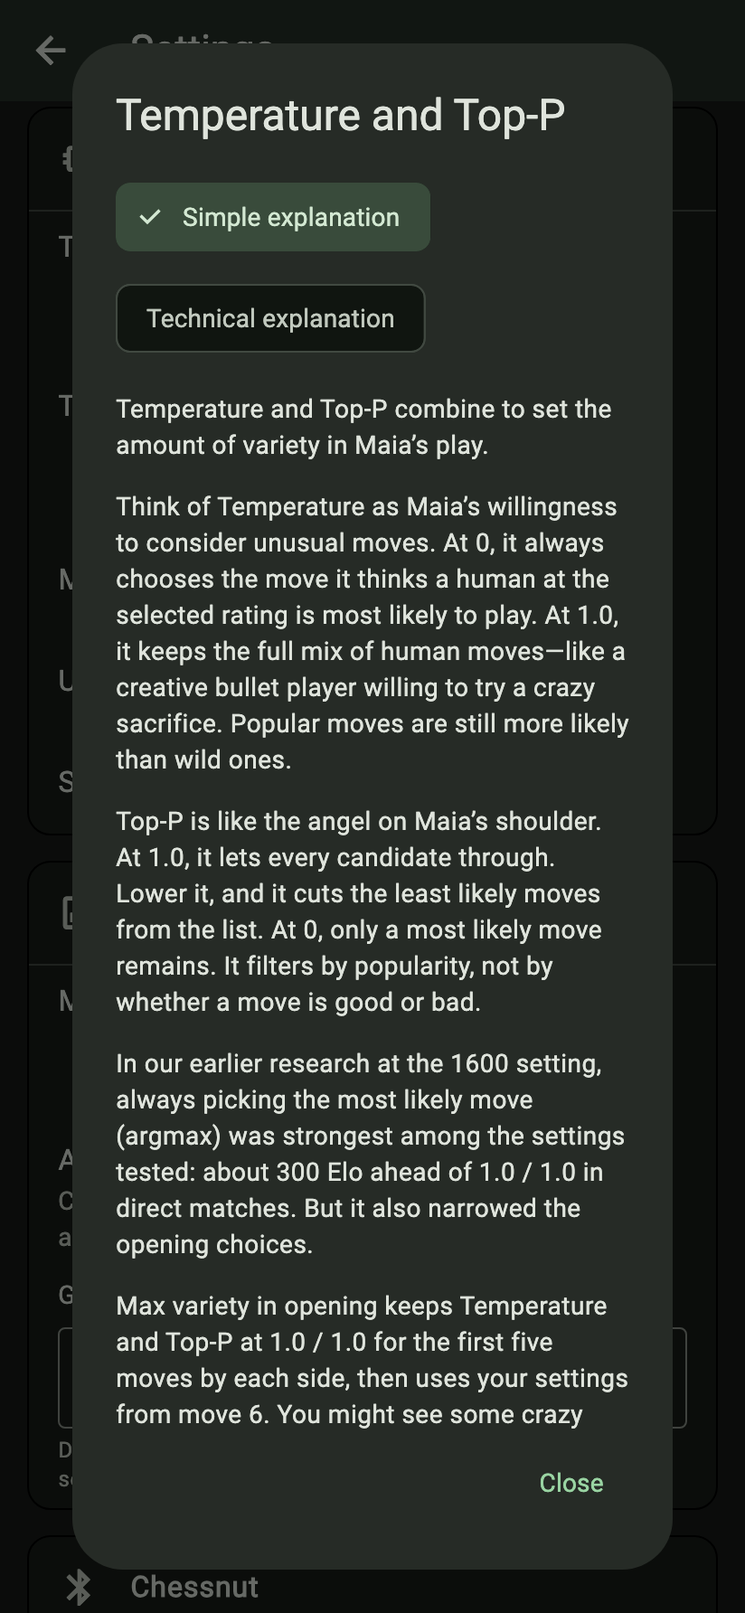
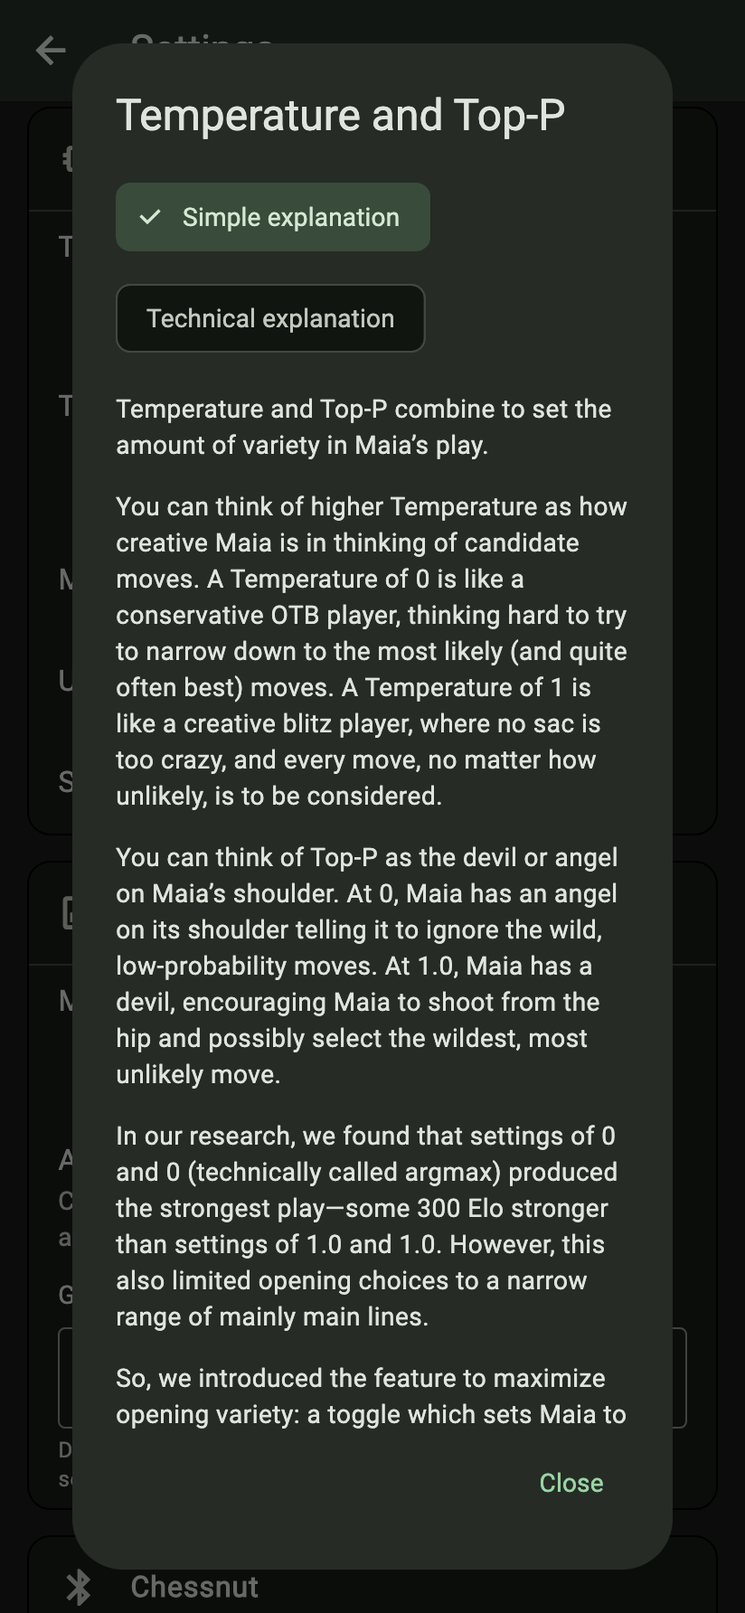
Use approved sampling explanation and correct opening notice threshold

Changed region(s): [[0.1517, 0.3083, 0.8495, 0.8941]]

diff --git a/lib/l10n/app_localizations_hi.dart b/lib/l10n/app_localizations_hi.dart
@@ -1391,27 +1391,27 @@ class AppLocalizationsHi extends AppLocalizations {
 
   @override
   String get samplingHelpIntro =>
-      'टेम्परेचर और Top-P मिलकर तय करते हैं कि Maia की चालों में कितनी विविधता होगी।';
+      'टेम्परेचर और Top-P मिलकर तय करते हैं कि Maia के खेल में कितनी विविधता होगी।';
 
   @override
   String get samplingHelpVariety =>
-      'टेम्परेचर को Maia की असामान्य चालों पर विचार करने की इच्छा समझें। 0 पर वह हमेशा वह चाल चुनती है जिसे चुनी गई रेटिंग का इंसान सबसे अधिक खेल सकता है। 1.0 पर इंसानी चालों की पूरी विविधता बनी रहती है—जैसे कोई रचनात्मक बुलेट खिलाड़ी अनोखा बलिदान आज़माने को तैयार हो। फिर भी आम चालों की संभावना अजीब चालों से अधिक रहती है।';
+      'ज़्यादा टेम्परेचर का मतलब आप यह समझ सकते हैं कि संभावित चालें सोचते समय Maia कितनी रचनात्मक होगी। टेम्परेचर 0 एक सतर्क खिलाड़ी जैसा है, जो असली बिसात पर बैठकर गहराई से सोचता है और विकल्पों को सबसे संभावित (और अक्सर सबसे अच्छी) चालों तक सीमित करने की कोशिश करता है। टेम्परेचर 1 एक रचनात्मक ब्लिट्ज़ खिलाड़ी जैसा है, जिसके लिए कोई भी बलिदान बहुत पागलपन भरा नहीं है और हर चाल पर विचार किया जा सकता है, चाहे उसकी संभावना कितनी भी कम हो।';
 
   @override
   String get samplingHelpDefaults =>
-      'Top-P को Maia के कंधे पर बैठा देवदूत समझें। 1.0 पर सभी विकल्पों को अनुमति मिलती है। इसे घटाने पर सबसे कम संभावित चालें हटती हैं। 0 पर सबसे अधिक संभावना वाली एक चाल बचती है। यह लोकप्रियता के आधार पर छाँटता है, चाल अच्छी है या बुरी, इस आधार पर नहीं।';
+      'Top-P को आप Maia के कंधे पर बैठे शैतान या फ़रिश्ते की तरह समझ सकते हैं। 0 पर फ़रिश्ता उसे अजीब और कम संभावना वाली चालों को नज़रअंदाज़ करने को कहता है। 1.0 पर शैतान उसे आवेग में खेलने के लिए उकसाता है, जिससे वह सबसे अजीब और सबसे कम संभावित चाल भी चुन सकती है।';
 
   @override
   String get samplingHelpStrength =>
-      '1600 सेटिंग पर हमारे पहले शोध में हमेशा सबसे संभावित चाल चुनना (argmax) जाँची गई सेटिंग में सबसे मज़बूत था: 1.0 / 1.0 के विरुद्ध सीधे मुकाबलों में लगभग 300 Elo की बढ़त। लेकिन इससे ओपनिंग के विकल्प भी कम हुए।';
+      'हमारे शोध में 0 और 0 की सेटिंग (जिसे तकनीकी भाषा में argmax कहते हैं) से सबसे मज़बूत खेल मिला—1.0 और 1.0 की सेटिंग से लगभग 300 Elo अधिक मज़बूत। हालांकि, इससे ओपनिंग के विकल्प भी सीमित हो गए और ज़्यादातर मुख्य लाइनों तक सिमट गए।';
 
   @override
   String get samplingHelpArgmax =>
-      'ओपनिंग में अधिकतम विविधता चालू होने पर दोनों पक्षों की पहली पाँच चालों में टेम्परेचर और Top-P 1.0 / 1.0 रहते हैं। छठी चाल से आपकी सेटिंग लागू होती है। ओपनिंग में कुछ चौंकाने वाली चालें दिख सकती हैं!';
+      'इसलिए हमने ओपनिंग में अधिकतम विविधता की सुविधा जोड़ी: एक स्विच जो पहली 5 चालों के लिए Maia की सेटिंग 1.0 और 1.0 कर देता है। ओपनिंग में आपको कुछ अजीबोगरीब चालें दिख सकती हैं! लेकिन छठी चाल से Maia आपकी पहले से तय की गई सेटिंग पर लौट आती है।';
 
   @override
   String get samplingHelpTopP =>
-      'हम ओपनिंग विविधता चालू, टेम्परेचर 1.0 और Top-P 0.95 की सलाह देते हैं। यह देवदूत की सलाह सुनने वाला रचनात्मक खिलाड़ी है: ओपनिंग के बाद सबसे कम संभावित चालों का आखिरी हिस्सा हटता है, जिसकी कुल संभावना अधिकतम 5% होती है। इससे बड़ी गलतियाँ हट सकती हैं, लेकिन अप्रत्याशित अच्छी चालें भी। बड़ी गलतियाँ फिर भी संभव हैं। अधिक कठिन प्रतिद्वंद्वी के लिए टेम्परेचर 0 आज़माएँ। ओपनिंग विविधता चालू हो तो यह छठी चाल से लागू होता है। शुभकामनाएँ!';
+      'हम ओपनिंग में अधिकतम विविधता चालू रखने और टेम्परेचर 1.0 तथा Top-P 0.95 रखने की सलाह देते हैं। यह एक रचनात्मक खिलाड़ी के कंधे पर बैठे फ़रिश्ते जैसा है, जो कम से कम उसे बिल्कुल बेतुकी चालें खेलने से रोकता है—यानी सबसे कम संभावित चालें, जिनकी कुल संभावना अधिकतम 5% होती है। ये चालें शानदार हो सकती हैं, लेकिन बेवकूफ़ी भरी बड़ी गलतियाँ भी हो सकती हैं। इससे ओपनिंग में विविधता, मध्य खेल में रचनात्मकता और बहुत कम संभावना वाली कुछ बड़ी गलतियों को हटाकर अधिक मज़बूत खेल के बीच अच्छा संतुलन मिलना चाहिए।\n\nअगर आप चुनौती के लिए तैयार हैं, तो टेम्परेचर 0 रखें (टेम्परेचर 0 होने पर Top-P का कोई असर नहीं होता)। हमारे शोध के अनुसार, इससे सबसे मज़बूत प्रतिद्वंद्वी मिलेगा। शुभकामनाएँ!';
 
   @override
   String get samplingHelpResearchIntro =>

diff --git a/lib/l10n/app_localizations_ru.dart b/lib/l10n/app_localizations_ru.dart
@@ -1413,27 +1413,27 @@ class AppLocalizationsRu extends AppLocalizations {
 
   @override
   String get samplingHelpIntro =>
-      'Температура и Top-P вместе определяют разнообразие ходов Maia.';
+      'Температура и Top-P вместе определяют разнообразие игры Maia.';
 
   @override
   String get samplingHelpVariety =>
-      'Представьте температуру как готовность Maia рассматривать необычные ходы. При 0 она всегда выбирает ход, который, по её прогнозу, наиболее вероятен для человека выбранного рейтинга. При 1.0 сохраняется весь набор человеческих ходов — как у изобретательного игрока в пулю, готового на безумную жертву. При этом популярные ходы всё равно вероятнее необычных.';
+      'Повышенную температуру можно представить как большую изобретательность Maia при выборе ходов-кандидатов. Температура 0 — это как осторожный игрок за настоящей доской, который тщательно обдумывает позицию, стараясь сузить выбор до наиболее вероятных (и довольно часто лучших) ходов. Температура 1 — это как изобретательный блицор, для которого нет слишком безумных жертв и который готов рассмотреть любой ход, каким бы маловероятным он ни был.';
 
   @override
   String get samplingHelpDefaults =>
-      'Top-P — словно ангел на плече Maia. При 1.0 он пропускает все ходы-кандидаты. Если уменьшить значение, самые маловероятные ходы исключаются. При 0 остаётся один из наиболее вероятных ходов. Фильтр учитывает популярность хода, а не его качество.';
+      'Top-P можно представить как дьявола или ангела на плече Maia. При 0 ангел советует ей не обращать внимания на безумные, маловероятные ходы. При 1.0 дьявол подталкивает её действовать сгоряча и, возможно, выбрать самый безумный и неожиданный ход.';
 
   @override
   String get samplingHelpStrength =>
-      'В нашем предыдущем исследовании при рейтинге 1600 выбор самого вероятного хода (argmax) оказался самым сильным из проверенных вариантов: преимущество над 1.0 / 1.0 в прямых матчах составило около 300 Эло. Но выбор дебютов стал уже.';
+      'В нашем исследовании настройки 0 и 0 (технически это называется argmax) дали самую сильную игру — примерно на 300 Elo сильнее, чем настройки 1.0 и 1.0. Однако это также ограничило выбор дебютов узким набором преимущественно основных вариантов.';
 
   @override
   String get samplingHelpArgmax =>
-      'Максимальное разнообразие в дебюте использует температуру и Top-P 1.0 / 1.0 на первых пяти ходах каждой стороны, а с шестого применяет ваши настройки. В дебюте возможны сюрпризы!';
+      'Поэтому мы добавили функцию максимального разнообразия в дебюте: переключатель, с которым Maia использует настройки 1.0 и 1.0 на первых 5 ходах. В дебюте можно увидеть что-нибудь безумное! Но с 6-го хода Maia переходит к заданным вами настройкам.';
 
   @override
   String get samplingHelpTopP =>
-      'Мы рекомендуем включить разнообразие в дебюте, установить температуру 1.0 и Top-P 0.95. Это творческий игрок с ангелом на плече: после дебюта отбрасывается наименее вероятный хвост ходов с суммарной вероятностью не более 5%. Так можно исключить зевки, но и неожиданные хорошие ходы. Зевки всё ещё возможны. Для более сильного соперника попробуйте температуру 0. Если разнообразие в дебюте включено, она действует с шестого хода. Удачи!';
+      'Мы рекомендуем включить максимальное разнообразие в дебюте и установить температуру 1.0, а Top-P — 0.95. Это как изобретательный игрок с ангелом на плече, который хотя бы отговаривает его от совсем уж нелепых ходов — наименее вероятных, суммарная вероятность которых составляет до 5%. Конечно, они могут оказаться блестящими, но могут быть и глупыми зевками. Это должно дать хороший баланс разнообразия в дебюте, изобретательности в миттельшпиле и более сильной игры за счёт исключения некоторых крайне маловероятных зевков.\n\nЕсли вы готовы рискнуть, установите температуру 0 (при температуре 0 Top-P ни на что не влияет): по данным нашего исследования, это даст самого сильного соперника. Удачи!';
 
   @override
   String get samplingHelpResearchIntro =>

diff --git a/lib/l10n/app_localizations.dart b/lib/l10n/app_localizations.dart
@@ -2407,31 +2407,31 @@ abstract class AppLocalizations {
   /// Maia-specific sampling guidance for the 2.5 default proposal. Preserve probability mass versus individual move probability, the five-full-move boundary and conditional direct-match strength claims. Not a Lichess equivalent. Explanation selector changes prose only.
   ///
   /// In en, this message translates to:
-  /// **'Think of Temperature as Maia’s willingness to consider unusual moves. At 0, it always chooses the move it thinks a human at the selected rating is most likely to play. At 1.0, it keeps the full mix of human moves—like a creative bullet player willing to try a crazy sacrifice. Popular moves are still more likely than wild ones.'**
+  /// **'You can think of higher Temperature as how creative Maia is in thinking of candidate moves. A Temperature of 0 is like a conservative OTB player, thinking hard to try to narrow down to the most likely (and quite often best) moves. A Temperature of 1 is like a creative blitz player, where no sac is too crazy, and every move, no matter how unlikely, is to be considered.'**
   String get samplingHelpVariety;
 
   /// Maia-specific sampling guidance for the 2.5 default proposal. Preserve probability mass versus individual move probability, the five-full-move boundary and conditional direct-match strength claims. Not a Lichess equivalent. Explanation selector changes prose only.
   ///
   /// In en, this message translates to:
-  /// **'Top-P is like the angel on Maia’s shoulder. At 1.0, it lets every candidate through. Lower it, and it cuts the least likely moves from the list. At 0, only a most likely move remains. It filters by popularity, not by whether a move is good or bad.'**
+  /// **'You can think of Top-P as the devil or angel on Maia’s shoulder. At 0, Maia has an angel on its shoulder telling it to ignore the wild, low-probability moves. At 1.0, Maia has a devil, encouraging Maia to shoot from the hip and possibly select the wildest, most unlikely move.'**
   String get samplingHelpDefaults;
 
   /// Maia-specific sampling guidance for the 2.5 default proposal. Preserve probability mass versus individual move probability, the five-full-move boundary and conditional direct-match strength claims. Not a Lichess equivalent. Explanation selector changes prose only.
   ///
   /// In en, this message translates to:
-  /// **'In our earlier research at the 1600 setting, always picking the most likely move (argmax) was strongest among the settings tested: about 300 Elo ahead of 1.0 / 1.0 in direct matches. But it also narrowed the opening choices.'**
+  /// **'In our research, we found that settings of 0 and 0 (technically called argmax) produced the strongest play—some 300 Elo stronger than settings of 1.0 and 1.0. However, this also limited opening choices to a narrow range of mainly main lines.'**
   String get samplingHelpStrength;
 
   /// Maia-specific sampling guidance for the 2.5 default proposal. Preserve probability mass versus individual move probability, the five-full-move boundary and conditional direct-match strength claims. Not a Lichess equivalent. Explanation selector changes prose only.
   ///
   /// In en, this message translates to:
-  /// **'Max variety in opening keeps Temperature and Top-P at 1.0 / 1.0 for the first five moves by each side, then uses your settings from move 6. You might see some crazy things in the opening!'**
+  /// **'So, we introduced the feature to maximize opening variety: a toggle which sets Maia to play with settings of 1.0 and 1.0 for the first 5 moves. You might see some crazy things in the opening phase! But from the 6th move, Maia switches to your preconfigured settings.'**
   String get samplingHelpArgmax;
 
   /// Maia-specific sampling guidance for the 2.5 default proposal. Preserve probability mass versus individual move probability, the five-full-move boundary and conditional direct-match strength claims. Not a Lichess equivalent. Explanation selector changes prose only.
   ///
   /// In en, this message translates to:
-  /// **'Our recommended defaults are opening variety on, Temperature 1.0 and Top-P 0.95. This keeps a creative player with an angel on its shoulder: after the opening, moves from the least likely tail, together worth up to 5% of the chance, are left out. That can remove blunders, but also good surprises. Blunders are still possible. For a tougher opponent, try Temperature 0. With opening variety on, that takes effect from move 6. Good luck!'**
+  /// **'We recommend turning max opening variety on and setting Temperature to 1.0 and Top-P to 0.95. This is like having a creative player with an angel on its shoulder that at least talks it out of playing the totally far-out moves—the least likely moves whose combined probability is up to 5%. These might be brilliant, true, but they can also be silly blunders. So this should make for a good balance of variety in the opening, creativity in the middle game, and stronger play through the exclusion of some very low-probability blunders.\n\nFor those feeling brave, setting Temperature to 0 (Top-P doesn’t mean anything when Temperature is 0) will produce the strongest opponent, based on our research. Good luck!'**
   String get samplingHelpTopP;
 
   /// Maia-specific sampling guidance for the 2.5 default proposal. Preserve probability mass versus individual move probability, the five-full-move boundary and conditional direct-match strength claims. Not a Lichess equivalent. Explanation selector changes prose only.

diff --git a/lib/l10n/app_localizations_ja.dart b/lib/l10n/app_localizations_ja.dart
@@ -1291,27 +1291,28 @@ class AppLocalizationsJa extends AppLocalizations {
   String get resetSettingsAction => '設定を初期値に戻す';
 
   @override
-  String get samplingHelpIntro => '温度とTop-Pは、Maiaの指し手にどのくらい変化を持たせるかを決めます。';
+  String get samplingHelpIntro =>
+      '温度とTop-Pを組み合わせることで、Maiaの指し手にどのくらい多様性を持たせるかが決まります。';
 
   @override
   String get samplingHelpVariety =>
-      '温度は、Maiaが珍しい手を候補に入れる度合いと考えてください。0では、選んだレーティングの人間が最も指しそうだと予測した手を必ず選びます。1.0では、人間の指し手の幅をそのまま残します。大胆なサクリファイスも試す、創造的なブレットプレイヤーのようなイメージです。ただし、奇抜な手よりよく指される手のほうが選ばれやすいままです。';
+      '温度を高くするほど、Maiaが候補手を考えるときの創造性が増す、と考えてください。温度0は、最も指されそうな手（そして、多くの場合は最善手）に絞ろうとじっくり考える、堅実な対面対局のプレイヤーのようなものです。温度1は、どんな大胆なサクリファイスも恐れず、どれほど指されにくい手でも候補に入れる、創造的なブリッツプレイヤーのようなものです。';
 
   @override
   String get samplingHelpDefaults =>
-      'Top-Pは、Maiaの肩に乗った天使のようなものです。1.0なら、すべての候補を通します。下げると、選ばれる確率の低い手から候補を削ります。0では、最も確率の高い手だけが残ります。手の良し悪しではなく、人間が指しそうかどうかで絞り込みます。';
+      'Top-Pは、Maiaの肩に乗った悪魔や天使だと考えてください。0では、天使が「奇抜で確率の低い手は無視しよう」と助言します。1.0では、悪魔が「思い切って指してみよう」とそそのかし、最も奇抜で指されにくい手を選ぶこともあります。';
 
   @override
   String get samplingHelpStrength =>
-      '以前のレーティング1600での研究では、最も確率の高い手を常に選ぶ方法（argmax）が、調べた設定の中で最も強くなりました。1.0 / 1.0との直接対戦では約300 Elo相当の差がありましたが、オープニングの選択肢も狭まりました。';
+      '私たちの研究では、0と0の設定（技術的にはargmaxと呼びます）が最も強い指し方となり、1.0と1.0の設定より約300 Elo強くなりました。ただし、オープニングの選択肢も、主にメインラインの狭い範囲に限られるようになりました。';
 
   @override
   String get samplingHelpArgmax =>
-      '「序盤の多様性を最大にする」は、双方の最初の5手に温度とTop-P 1.0 / 1.0を使い、6手目から設定した値に戻します。序盤には驚くような手が出るかもしれません！';
+      'そこで、序盤の多様性を最大にする機能を導入しました。最初の5手はMaiaの設定を1.0と1.0にするスイッチです。序盤には驚くような手が出るかもしれません！ ただし、6手目からは、あらかじめ指定した設定に切り替わります。';
 
   @override
   String get samplingHelpTopP =>
-      'おすすめの初期設定は、序盤の多様性をオン、温度 1.0、Top-P 0.95です。創造的なプレイヤーに天使が助言するイメージです。序盤の後は、確率の低い末尾の手を、合計で最大5%分だけ候補から外します。ブランダーを除けることもあれば、意外な好手を除くこともあります。ブランダーがなくなるわけではありません。より手強い相手を求めるなら温度 0を試してください。序盤の多様性がオンなら6手目から適用されます。幸運を！';
+      '「序盤の多様性を最大にする」をオンにし、温度を1.0、Top-Pを0.95にすることをおすすめします。創造的なプレイヤーの肩に天使が乗り、少なくとも極端に奇抜な手は思いとどまらせるようなイメージです。除かれるのは、確率の低い手のうち、合計確率が最大5%になる部分です。そうした手には妙手もあるでしょうが、単純なブランダーもあり得ます。序盤の多様性、ミドルゲームの創造性、そして非常に確率の低いブランダーの一部を除くことによる強さの、よいバランスが期待できます。\n\n腕に自信のある方は、温度を0にしてみてください（温度0ではTop-Pは意味を持ちません）。私たちの研究では、最も手強い相手になる設定です。健闘を祈ります！';
 
   @override
   String get samplingHelpResearchIntro =>

diff --git a/lib/l10n/app_localizations_ko.dart b/lib/l10n/app_localizations_ko.dart
@@ -1293,27 +1293,27 @@ class AppLocalizationsKo extends AppLocalizations {
   String get resetSettingsAction => '설정 초기화';
 
   @override
-  String get samplingHelpIntro => '온도와 Top-P는 함께 Maia의 수가 얼마나 다양할지 정합니다.';
+  String get samplingHelpIntro => '온도와 Top-P는 함께 Maia의 플레이가 얼마나 다양한지를 결정합니다.';
 
   @override
   String get samplingHelpVariety =>
-      '온도는 Maia가 드문 수를 고려하는 정도라고 생각하면 됩니다. 0에서는 선택한 레이팅의 사람이 가장 둘 법하다고 예측한 수를 항상 고릅니다. 1.0에서는 사람의 수 분포를 그대로 유지합니다. 과감한 희생도 시도하는 창의적인 불릿 플레이어와 비슷합니다. 그래도 흔한 수가 기발한 수보다 선택될 가능성이 높습니다.';
+      '온도가 높을수록 Maia가 후보 수를 생각할 때 더 창의적이라고 이해하면 됩니다. 온도 0은 가장 나올 법한 수(그리고 꽤 자주 최선의 수)로 선택지를 좁히려고 깊이 생각하는, 보수적인 대면 체스 플레이어와 같습니다. 온도 1은 아무리 대담한 희생도 마다하지 않고, 나올 가능성이 아무리 낮아도 모든 수를 고려하는 창의적인 블리츠 플레이어와 같습니다.';
 
   @override
   String get samplingHelpDefaults =>
-      'Top-P는 Maia의 어깨 위 천사와 같습니다. 1.0에서는 모든 후보를 통과시킵니다. 낮추면 확률이 가장 낮은 수부터 제외합니다. 0에서는 확률이 가장 높은 수 하나만 남습니다. 수의 좋고 나쁨이 아니라 사람이 둘 가능성으로 거릅니다.';
+      'Top-P는 Maia의 어깨 위에 앉은 악마 또는 천사라고 생각하면 됩니다. 0에서는 천사가 엉뚱하고 확률이 낮은 수를 무시하라고 말합니다. 1.0에서는 악마가 과감하게 질러 보라고 부추겨, 가장 엉뚱하고 나올 가능성이 낮은 수를 고를 수도 있습니다.';
 
   @override
   String get samplingHelpStrength =>
-      '이전 레이팅 1600 연구에서는 항상 가장 확률 높은 수를 고르는 argmax가 시험한 설정 중 가장 강했습니다. 1.0 / 1.0과의 직접 대결에서 약 300 Elo에 해당하는 우위를 보였지만, 오프닝 선택도 좁아졌습니다.';
+      '연구 결과, 0과 0 설정(기술적으로 argmax라고 부릅니다)이 가장 강한 플레이를 보였으며, 1.0과 1.0 설정보다 약 300 Elo 더 강했습니다. 하지만 오프닝 선택도 주로 메인라인 위주의 좁은 범위로 제한되었습니다.';
 
   @override
   String get samplingHelpArgmax =>
-      '오프닝 다양성 최대화를 켜면 양쪽의 처음 다섯 수에는 온도와 Top-P 1.0 / 1.0을 사용하고, 여섯 번째 수부터 설정한 값으로 돌아갑니다. 오프닝에서 놀라운 수가 나올 수도 있습니다!';
+      '그래서 오프닝 다양성을 최대화하는 기능을 도입했습니다. 이 스위치를 켜면 처음 5수 동안 Maia가 1.0과 1.0 설정으로 둡니다. 오프닝에서 놀라운 수를 볼 수도 있습니다! 하지만 6수째부터는 미리 지정한 설정으로 돌아갑니다.';
 
   @override
   String get samplingHelpTopP =>
-      '권장 기본값은 오프닝 다양성 켜기, 온도 1.0, Top-P 0.95입니다. 천사가 조언하는 창의적인 플레이어를 떠올려 보세요. 오프닝 이후에는 확률이 낮은 꼬리 부분을 합계 최대 5%만큼 제외합니다. 블런더뿐 아니라 뜻밖의 좋은 수도 빠질 수 있고, 블런더가 없어지는 것은 아닙니다. 더 강한 상대를 원하면 온도 0을 시험해 보세요. 오프닝 다양성을 켜면 여섯 번째 수부터 적용됩니다. 행운을 빕니다!';
+      '오프닝 다양성 최대화를 켜고 온도를 1.0, Top-P를 0.95로 설정하는 것을 권장합니다. 창의적인 플레이어의 어깨 위에 천사가 앉아 적어도 지나치게 엉뚱한 수는 두지 않도록 말려 주는 셈입니다. 제외되는 것은 확률이 가장 낮은 수들 중 합계 확률이 최대 5%인 부분입니다. 이런 수는 묘수일 수도 있지만, 어이없는 블런더일 수도 있습니다. 따라서 오프닝의 다양성, 미들게임의 창의성, 그리고 확률이 매우 낮은 블런더 일부를 제외해 얻는 더 강한 플레이 사이에서 좋은 균형을 기대할 수 있습니다.\n\n자신 있다면 온도를 0으로 설정해 보세요(온도가 0이면 Top-P는 의미가 없습니다). 연구 결과에 따르면 가장 강한 상대가 됩니다. 행운을 빕니다!';
 
   @override
   String get samplingHelpResearchIntro =>

diff --git a/lib/l10n/app_localizations_fr.dart b/lib/l10n/app_localizations_fr.dart
@@ -1393,27 +1393,27 @@ class AppLocalizationsFr extends AppLocalizations {
 
   @override
   String get samplingHelpIntro =>
-      'La température et Top-P déterminent ensemble la variété des coups de Maia.';
+      'La température et Top-P déterminent ensemble la variété du jeu de Maia.';
 
   @override
   String get samplingHelpVariety =>
-      'Voyez la température comme la volonté de Maia d’envisager des coups inhabituels. À 0, elle choisit toujours le coup qu’elle juge le plus probable pour un humain du niveau sélectionné. À 1.0, elle conserve tout l’éventail des coups humains, comme un joueur de bullet créatif prêt à tenter un sacrifice fou. Les coups populaires restent plus probables que les coups extravagants.';
+      'Vous pouvez voir une température plus élevée comme une plus grande créativité de Maia lorsqu’elle envisage des coups candidats. Une température de 0 ressemble à un joueur prudent devant un véritable échiquier, qui réfléchit longuement pour se limiter aux coups les plus probables (et assez souvent les meilleurs). Une température de 1 ressemble à un joueur de blitz créatif, pour qui aucun sacrifice n’est trop fou et chaque coup, aussi improbable soit-il, mérite d’être envisagé.';
 
   @override
   String get samplingHelpDefaults =>
-      'Top-P est comme l’ange sur l’épaule de Maia. À 1.0, il laisse passer tous les candidats. Diminuez-le pour retirer les coups les moins probables. À 0, il ne reste qu’un coup de probabilité maximale. Il filtre selon la popularité, pas selon la qualité du coup.';
+      'Vous pouvez voir Top-P comme le diable ou l’ange sur l’épaule de Maia. À 0, un ange lui dit d’ignorer les coups extravagants et peu probables. À 1.0, un diable l’encourage à jouer à l’instinct et peut-être à choisir le coup le plus fou et le plus improbable.';
 
   @override
   String get samplingHelpStrength =>
-      'Dans notre étude précédente au niveau 1600, toujours choisir le coup le plus probable (argmax) était le plus fort des réglages testés : environ 300 Elo d’avance sur 1.0 / 1.0 en confrontations directes. Mais cela limitait aussi les ouvertures.';
+      'Dans notre recherche, les réglages 0 et 0 (appelés techniquement argmax) ont produit le jeu le plus fort : environ 300 Elo de plus que les réglages 1.0 et 1.0. Cependant, cela limitait aussi les choix d’ouverture à un éventail restreint, composé surtout de variantes principales.';
 
   @override
   String get samplingHelpArgmax =>
-      'La variété maximale en ouverture utilise température et Top-P 1.0 / 1.0 pendant les cinq premiers coups de chaque camp, puis vos réglages à partir du sixième. Attendez-vous à des surprises dans l’ouverture !';
+      'Nous avons donc introduit une fonction pour maximiser la variété en ouverture : un interrupteur qui fait jouer Maia avec les réglages 1.0 et 1.0 pendant les 5 premiers coups. Vous pourriez voir des choses folles dans l’ouverture ! Mais à partir du 6e coup, Maia revient aux réglages que vous avez configurés.';
 
   @override
   String get samplingHelpTopP =>
-      'Nous recommandons la variété en ouverture activée, une température de 1.0 et Top-P à 0.95. Un joueur créatif avec un ange sur l’épaule : après l’ouverture, les candidats de la fin de la distribution sont exclus, pour au plus 5% de probabilité au total. Cela peut retirer des gaffes, mais aussi de bonnes surprises. Les gaffes restent possibles. Pour un adversaire plus coriace, essayez la température 0. Avec la variété en ouverture activée, elle s’applique dès le sixième coup. Bonne chance !';
+      'Nous recommandons d’activer la variété maximale en ouverture et de régler la température sur 1.0 et Top-P sur 0.95. C’est comme un joueur créatif avec un ange sur l’épaule, qui le dissuade au moins de jouer les coups complètement farfelus : les coups les moins probables dont la probabilité cumulée représente jusqu’à 5 %. Ils pourraient certes être brillants, mais aussi être de grosses erreurs absurdes. Cela devrait offrir un bon équilibre entre variété en ouverture, créativité en milieu de partie et jeu plus fort grâce à l’exclusion de certaines grosses erreurs très peu probables.\n\nPour les plus courageux, régler la température sur 0 (Top-P n’a aucun effet lorsque la température est à 0) donnera l’adversaire le plus fort, d’après notre recherche. Bonne chance !';
 
   @override
   String get samplingHelpResearchIntro =>

diff --git a/lib/l10n/app_localizations_es.dart b/lib/l10n/app_localizations_es.dart
@@ -1394,27 +1394,27 @@ class AppLocalizationsEs extends AppLocalizations {
 
   @override
   String get samplingHelpIntro =>
-      'La temperatura y Top-P determinan juntas la variedad de las jugadas de Maia.';
+      'La temperatura y Top-P se combinan para determinar cuánta variedad hay en el juego de Maia.';
 
   @override
   String get samplingHelpVariety =>
-      'Piensa en la temperatura como la disposición de Maia a considerar jugadas poco habituales. Con 0, siempre elige la jugada que cree más probable para una persona del nivel seleccionado. Con 1.0, conserva toda la variedad humana: como un jugador creativo de bala dispuesto a probar un sacrificio disparatado. Las jugadas populares siguen siendo más probables que las extravagantes.';
+      'Puedes pensar en una temperatura más alta como una mayor creatividad de Maia al considerar jugadas candidatas. Una temperatura de 0 es como un jugador conservador de ajedrez presencial, que piensa detenidamente para reducir sus opciones a las jugadas más probables (y, con bastante frecuencia, las mejores). Una temperatura de 1 es como un jugador creativo de blitz, para quien ningún sacrificio es demasiado loco y toda jugada, por improbable que sea, merece considerarse.';
 
   @override
   String get samplingHelpDefaults =>
-      'Top-P es como el ángel sobre el hombro de Maia. Con 1.0, deja pasar todas las candidatas. Al bajarlo, elimina las menos probables. Con 0, solo queda una de las jugadas más probables. Filtra por popularidad, no por si una jugada es buena o mala.';
+      'Puedes imaginar Top-P como el diablo o el ángel en el hombro de Maia. Con 0, Maia tiene un ángel que le dice que ignore las jugadas disparatadas y poco probables. Con 1.0, tiene un diablo que la anima a improvisar y quizá elegir la jugada más disparatada e improbable.';
 
   @override
   String get samplingHelpStrength =>
-      'En nuestra investigación anterior con el nivel 1600, elegir siempre la jugada más probable (argmax) fue la opción más fuerte entre las probadas: unos 300 Elo de ventaja frente a 1.0 / 1.0 en enfrentamientos directos. Pero también redujo las opciones de apertura.';
+      'En nuestra investigación, los ajustes de 0 y 0 (lo que técnicamente se llama argmax) produjeron el juego más fuerte: unos 300 Elo por encima de los ajustes de 1.0 y 1.0. Sin embargo, también limitaron las opciones de apertura a un repertorio reducido, compuesto principalmente por líneas principales.';
 
   @override
   String get samplingHelpArgmax =>
-      'La máxima variedad en la apertura mantiene la temperatura y Top-P en 1.0 / 1.0 durante las primeras cinco jugadas de cada bando y aplica tus ajustes desde la sexta. ¡Puede haber sorpresas en la apertura!';
+      'Por eso introdujimos la función para maximizar la variedad en la apertura: un interruptor que hace que Maia use los ajustes de 1.0 y 1.0 durante las primeras 5 jugadas. ¡Puede que veas alguna locura en la apertura! Pero, a partir de la sexta jugada, Maia vuelve a los ajustes que hayas configurado.';
 
   @override
   String get samplingHelpTopP =>
-      'Recomendamos activar la variedad en la apertura, con temperatura 1.0 y Top-P 0.95. Es un jugador creativo con un ángel al hombro: tras la apertura, descarta las jugadas de la cola menos probable, que juntas suman como máximo un 5% de probabilidad. Puede eliminar errores graves, pero también buenas sorpresas. Sigue siendo posible cometer errores graves. Para un rival más difícil, prueba la temperatura 0. Con la variedad en la apertura activada, se aplica desde la sexta jugada. ¡Buena suerte!';
+      'Recomendamos activar la máxima variedad en la apertura y ajustar la temperatura a 1.0 y Top-P a 0.95. Es como tener un jugador creativo con un ángel en el hombro que, al menos, lo disuade de jugar las jugadas más descabelladas: las menos probables, cuya probabilidad conjunta suma hasta un 5%. Es cierto que podrían ser brillantes, pero también pueden ser errores graves y absurdos. Así se busca un buen equilibrio entre variedad en la apertura, creatividad en el medio juego y un juego más fuerte al excluir algunos errores graves de probabilidad muy baja.\n\nPara quienes se atrevan, ajustar la temperatura a 0 (Top-P no tiene efecto cuando la temperatura es 0) ofrecerá el rival más fuerte, según nuestra investigación. ¡Buena suerte!';
 
   @override
   String get samplingHelpResearchIntro =>

diff --git a/lib/l10n/app_localizations_de.dart b/lib/l10n/app_localizations_de.dart
@@ -1397,27 +1397,27 @@ class AppLocalizationsDe extends AppLocalizations {
 
   @override
   String get samplingHelpIntro =>
-      'Temperatur und Top-P bestimmen gemeinsam die Vielfalt von Maias Zügen.';
+      'Temperatur und Top-P bestimmen gemeinsam, wie abwechslungsreich Maia spielt.';
 
   @override
   String get samplingHelpVariety =>
-      'Die Temperatur beschreibt, wie sehr Maia ungewöhnliche Züge in Betracht zieht. Bei 0 wählt sie immer den Zug, den ein Mensch der gewählten Spielstärke ihrer Einschätzung nach am ehesten spielen würde. Bei 1.0 bleibt die ganze menschliche Zugvielfalt erhalten – wie bei einem kreativen Bullet-Spieler, der auch ein verrücktes Opfer wagt. Häufige Züge bleiben wahrscheinlicher als ausgefallene.';
+      'Eine höhere Temperatur kannst du dir als mehr Kreativität bei der Suche nach Kandidatenzügen vorstellen. Temperatur 0 ist wie ein konservativer Spieler am echten Brett, der gründlich nachdenkt, um die Auswahl auf die wahrscheinlichsten (und recht oft besten) Züge einzugrenzen. Temperatur 1 ist wie ein kreativer Blitzspieler, dem kein Opfer zu verrückt ist und der jeden Zug in Betracht zieht, so unwahrscheinlich er auch sein mag.';
 
   @override
   String get samplingHelpDefaults =>
-      'Top-P ist wie der Engel auf Maias Schulter. Bei 1.0 lässt er alle Kandidaten durch. Ein niedrigerer Wert entfernt die unwahrscheinlichsten Züge. Bei 0 bleibt nur ein Zug mit höchster Wahrscheinlichkeit übrig. Gefiltert wird nach Häufigkeit, nicht nach der Qualität des Zuges.';
+      'Top-P kannst du dir als Teufel oder Engel auf Maias Schulter vorstellen. Bei 0 sitzt dort ein Engel, der Maia sagt, sie solle wilde, unwahrscheinliche Züge ignorieren. Bei 1.0 sitzt dort ein Teufel, der Maia zu einem Schuss aus der Hüfte ermutigt – vielleicht sogar zum wildesten, unwahrscheinlichsten Zug.';
 
   @override
   String get samplingHelpStrength =>
-      'In unserer früheren Untersuchung auf Stufe 1600 war die Auswahl des wahrscheinlichsten Zuges (argmax) unter den getesteten Einstellungen am stärksten: rund 300 Elo Vorsprung gegen 1.0 / 1.0 im direkten Vergleich. Allerdings wurde die Eröffnungsauswahl enger.';
+      'In unserer Untersuchung ergaben die Einstellungen 0 und 0 (technisch argmax genannt) das stärkste Spiel: etwa 300 Elo stärker als die Einstellungen 1.0 und 1.0. Allerdings beschränkte das auch die Eröffnungsauswahl auf einen engen Bereich, überwiegend aus Hauptvarianten.';
 
   @override
   String get samplingHelpArgmax =>
-      'Maximale Eröffnungsvielfalt nutzt Temperatur und Top-P 1.0 / 1.0 für die ersten fünf Züge beider Seiten. Ab Zug 6 gelten deine Einstellungen. In der Eröffnung kann es also Überraschungen geben!';
+      'Deshalb haben wir eine Funktion für maximale Eröffnungsvielfalt eingeführt: einen Schalter, mit dem Maia für die ersten 5 Züge die Einstellungen 1.0 und 1.0 verwendet. In der Eröffnung könntest du einige verrückte Dinge sehen! Ab dem 6. Zug wechselt Maia aber zu deinen voreingestellten Werten.';
 
   @override
   String get samplingHelpTopP =>
-      'Wir empfehlen Eröffnungsvielfalt an, Temperatur 1.0 und Top-P 0.95. Ein kreativer Spieler mit einem Engel auf der Schulter: Nach der Eröffnung entfallen die unwahrscheinlichsten Kandidaten, deren Wahrscheinlichkeiten zusammen höchstens 5% ergeben. Das kann grobe Fehler, aber auch gute Überraschungen ausschließen. Grobe Fehler bleiben möglich. Für einen stärkeren Gegner kannst du Temperatur 0 ausprobieren. Mit Eröffnungsvielfalt gilt das ab Zug 6. Viel Glück!';
+      'Wir empfehlen, maximale Eröffnungsvielfalt einzuschalten und Temperatur auf 1.0 sowie Top-P auf 0.95 zu setzen. Das ist wie ein kreativer Spieler mit einem Engel auf der Schulter, der ihm zumindest die völlig abwegigen Züge ausredet: die unwahrscheinlichsten Züge, deren gemeinsame Wahrscheinlichkeit bis zu 5 % beträgt. Diese könnten zwar brillant sein, aber auch dumme grobe Fehler. So sollte eine gute Balance aus Eröffnungsvielfalt, Kreativität im Mittelspiel und stärkerem Spiel entstehen, indem einige sehr unwahrscheinliche grobe Fehler ausgeschlossen werden.\n\nWer mutig ist, kann Temperatur auf 0 setzen (Top-P hat bei Temperatur 0 keine Wirkung). Laut unserer Untersuchung ergibt das den stärksten Gegner. Viel Glück!';
 
   @override
   String get samplingHelpResearchIntro =>

diff --git a/lib/l10n/app_localizations_pt.dart b/lib/l10n/app_localizations_pt.dart
@@ -1402,27 +1402,27 @@ class AppLocalizationsPt extends AppLocalizations {
 
   @override
   String get samplingHelpIntro =>
-      'Temperatura e Top-P definem juntas a variedade das jogadas de Maia.';
+      'A temperatura e o Top-P determinam juntos a variedade no jogo da Maia.';
 
   @override
   String get samplingHelpVariety =>
-      'Pense na temperatura como a disposição de Maia para considerar lances incomuns. Em 0, ela sempre escolhe o lance que considera mais provável para uma pessoa do nível selecionado. Em 1.0, mantém toda a variedade humana, como um jogador criativo de bullet disposto a tentar um sacrifício maluco. Os lances populares continuam mais prováveis que os extravagantes.';
+      'Você pode pensar em uma temperatura mais alta como mais criatividade da Maia ao considerar lances candidatos. Uma temperatura de 0 é como um jogador conservador de xadrez presencial, que pensa bastante para restringir as opções aos lances mais prováveis (e, com bastante frequência, os melhores). Uma temperatura de 1 é como um jogador criativo de blitz, para quem nenhum sacrifício é louco demais e todo lance, por mais improvável que seja, merece ser considerado.';
 
   @override
   String get samplingHelpDefaults =>
-      'Top-P é como o anjo no ombro de Maia. Em 1.0, deixa todos os candidatos passar. Ao diminuir o valor, retira os lances menos prováveis. Em 0, resta apenas um dos lances mais prováveis. O filtro considera a popularidade, não se o lance é bom ou ruim.';
+      'Você pode imaginar o Top-P como o diabo ou o anjo no ombro da Maia. Em 0, Maia tem um anjo dizendo para ignorar os lances malucos e pouco prováveis. Em 1.0, tem um diabo incentivando-a a agir por impulso e talvez escolher o lance mais maluco e improvável.';
 
   @override
   String get samplingHelpStrength =>
-      'Na pesquisa anterior com o nível 1600, escolher sempre o lance mais provável (argmax) foi a opção mais forte entre as testadas: cerca de 300 Elo de vantagem contra 1.0 / 1.0 em confrontos diretos. Mas isso também restringiu as aberturas.';
+      'Na nossa pesquisa, as configurações de 0 e 0 (tecnicamente chamadas de argmax) produziram o jogo mais forte: cerca de 300 Elo acima das configurações de 1.0 e 1.0. No entanto, isso também limitou as opções de abertura a um repertório restrito, composto principalmente por linhas principais.';
 
   @override
   String get samplingHelpArgmax =>
-      'A variedade máxima na abertura usa temperatura e Top-P 1.0 / 1.0 nos primeiros cinco lances de cada lado e aplica suas configurações a partir do sexto. Você pode ver surpresas na abertura!';
+      'Por isso, introduzimos o recurso de maximizar a variedade na abertura: uma opção que faz a Maia usar as configurações de 1.0 e 1.0 nos primeiros 5 lances. Você pode ver algumas loucuras na abertura! Mas, a partir do 6º lance, Maia volta às configurações que você definiu.';
 
   @override
   String get samplingHelpTopP =>
-      'Recomendamos variedade na abertura ativada, temperatura 1.0 e Top-P 0.95. É um jogador criativo com um anjo no ombro: após a abertura, ficam de fora os candidatos da cauda menos provável, que juntos somam no máximo 5% de probabilidade. Isso pode excluir erros graves, mas também boas surpresas. Erros graves continuam possíveis. Para um adversário mais difícil, experimente temperatura 0. Com a variedade na abertura ativada, ela vale a partir do sexto lance. Boa sorte!';
+      'Recomendamos ativar a variedade máxima na abertura e definir a temperatura como 1.0 e o Top-P como 0.95. É como ter um jogador criativo com um anjo no ombro, que pelo menos o convence a não jogar os lances totalmente descabidos: os menos prováveis, cuja probabilidade somada chega a até 5%. Eles podem ser brilhantes, é verdade, mas também podem ser erros graves e bobos. Assim, deve haver um bom equilíbrio entre variedade na abertura, criatividade no meio-jogo e um jogo mais forte ao excluir alguns erros graves de probabilidade muito baixa.\n\nPara quem tem coragem, definir a temperatura como 0 (o Top-P não tem efeito quando a temperatura é 0) produzirá o adversário mais forte, segundo nossa pesquisa. Boa sorte!';
 
   @override
   String get samplingHelpResearchIntro =>

diff --git a/lib/l10n/app_localizations_en.dart b/lib/l10n/app_localizations_en.dart
@@ -1378,23 +1378,23 @@ class AppLocalizationsEn extends AppLocalizations {
 
   @override
   String get samplingHelpVariety =>
-      'Think of Temperature as Maia’s willingness to consider unusual moves. At 0, it always chooses the move it thinks a human at the selected rating is most likely to play. At 1.0, it keeps the full mix of human moves—like a creative bullet player willing to try a crazy sacrifice. Popular moves are still more likely than wild ones.';
+      'You can think of higher Temperature as how creative Maia is in thinking of candidate moves. A Temperature of 0 is like a conservative OTB player, thinking hard to try to narrow down to the most likely (and quite often best) moves. A Temperature of 1 is like a creative blitz player, where no sac is too crazy, and every move, no matter how unlikely, is to be considered.';
 
   @override
   String get samplingHelpDefaults =>
-      'Top-P is like the angel on Maia’s shoulder. At 1.0, it lets every candidate through. Lower it, and it cuts the least likely moves from the list. At 0, only a most likely move remains. It filters by popularity, not by whether a move is good or bad.';
+      'You can think of Top-P as the devil or angel on Maia’s shoulder. At 0, Maia has an angel on its shoulder telling it to ignore the wild, low-probability moves. At 1.0, Maia has a devil, encouraging Maia to shoot from the hip and possibly select the wildest, most unlikely move.';
 
   @override
   String get samplingHelpStrength =>
-      'In our earlier research at the 1600 setting, always picking the most likely move (argmax) was strongest among the settings tested: about 300 Elo ahead of 1.0 / 1.0 in direct matches. But it also narrowed the opening choices.';
+      'In our research, we found that settings of 0 and 0 (technically called argmax) produced the strongest play—some 300 Elo stronger than settings of 1.0 and 1.0. However, this also limited opening choices to a narrow range of mainly main lines.';
 
   @override
   String get samplingHelpArgmax =>
-      'Max variety in opening keeps Temperature and Top-P at 1.0 / 1.0 for the first five moves by each side, then uses your settings from move 6. You might see some crazy things in the opening!';
+      'So, we introduced the feature to maximize opening variety: a toggle which sets Maia to play with settings of 1.0 and 1.0 for the first 5 moves. You might see some crazy things in the opening phase! But from the 6th move, Maia switches to your preconfigured settings.';
 
   @override
   String get samplingHelpTopP =>
-      'Our recommended defaults are opening variety on, Temperature 1.0 and Top-P 0.95. This keeps a creative player with an angel on its shoulder: after the opening, moves from the least likely tail, together worth up to 5% of the chance, are left out. That can remove blunders, but also good surprises. Blunders are still possible. For a tougher opponent, try Temperature 0. With opening variety on, that takes effect from move 6. Good luck!';
+      'We recommend turning max opening variety on and setting Temperature to 1.0 and Top-P to 0.95. This is like having a creative player with an angel on its shoulder that at least talks it out of playing the totally far-out moves—the least likely moves whose combined probability is up to 5%. These might be brilliant, true, but they can also be silly blunders. So this should make for a good balance of variety in the opening, creativity in the middle game, and stronger play through the exclusion of some very low-probability blunders.\n\nFor those feeling brave, setting Temperature to 0 (Top-P doesn’t mean anything when Temperature is 0) will produce the strongest opponent, based on our research. Good luck!';
 
   @override
   String get samplingHelpResearchIntro =>

diff --git a/lib/l10n/app_localizations_zh.dart b/lib/l10n/app_localizations_zh.dart
@@ -1276,23 +1276,23 @@ class AppLocalizationsZh extends AppLocalizations {
 
   @override
   String get samplingHelpVariety =>
-      '可以把温度理解为Maia考虑少见走法的意愿。设为0时，它总会选择它认为该等级分的人类最可能走的一步。设为1.0时，它保留人类走法的完整分布，就像敢于尝试疯狂弃子的创意子弹棋玩家。不过，常见走法仍比奇招更容易被选中。';
+      '你可以把更高的温度理解为Maia思考候选走法时更有创造力。温度为0时，就像一位稳健的线下棋手，认真思考，努力把选择缩小到最可能出现（而且往往也是最好）的走法。温度为1时，就像一位富有创造力的快棋棋手，再疯狂的弃子也敢尝试，每一步棋，无论多么不常见，都可以纳入考虑。';
 
   @override
   String get samplingHelpDefaults =>
-      'Top-P就像Maia肩上的天使。1.0让所有候选走法通过。调低后，它会从列表中去掉概率最低的走法。0只保留一个概率最高的走法。它依据的是人类选择的可能性，而不是走法的好坏。';
+      '你可以把Top-P想象成Maia肩上的恶魔或天使。设为0时，天使会告诉Maia忽略那些疯狂、低概率的走法。设为1.0时，恶魔会鼓动Maia大胆出手，甚至可能选择最疯狂、最不可能出现的走法。';
 
   @override
   String get samplingHelpStrength =>
-      '我们此前在等级分1600设置下的研究发现，总选概率最高走法的argmax在已测设置中最强：直接对战1.0 / 1.0时，优势相当于约300 Elo。但它也缩小了开局选择范围。';
+      '在我们的研究中，0和0的设置（技术上称为argmax）带来了最强的表现，比1.0和1.0的设置强约300 Elo。不过，这也把开局选择限制在以主线为主的较小范围内。';
 
   @override
   String get samplingHelpArgmax =>
-      '“开局多样性最大化”会在双方的前五步使用温度和Top-P 1.0 / 1.0，从第六步开始使用您配置的设置。开局可能出现令人意外的走法！';
+      '因此，我们加入了最大化开局多样性的功能：打开这个开关，Maia在前5步会使用1.0和1.0的设置。你可能会在开局阶段看到一些疯狂的走法！不过，从第6步起，Maia就会切换回你预先配置的设置。';
 
   @override
   String get samplingHelpTopP =>
-      '推荐默认设置为：开启开局多样性，温度 1.0，Top-P 0.95。这就像一位有天使提醒的创意玩家：开局后，去掉概率最低的一小部分走法，其概率合计最多为5%。这可能排除漏着，也可能排除意外的好棋；漏着仍然可能发生。如果想挑战更强的对手，可以试试温度 0。开启开局多样性时，它从第六步生效。祝您好运！';
+      '我们建议开启最大开局多样性，并将温度设为1.0、Top-P设为0.95。这就像一位富有创造力的棋手肩上有个天使，至少能劝它放弃那些特别离谱的走法——也就是概率最低、合计概率不超过5%的那些走法。它们可能是妙招，没错，但也可能是愚蠢的大漏招。因此，这应该能在开局的多样性、中局的创造力，以及通过排除部分极低概率的大漏招所获得的更强表现之间，取得良好的平衡。\n\n如果你勇于挑战，可以将温度设为0（温度为0时，Top-P没有作用）。根据我们的研究，这会带来最强的对手。祝你好运！';
 
   @override
   String get samplingHelpResearchIntro => '查看图解指南，了解这些选择背后的研究，并访问完整结果。';

diff --git a/test/review_page_test.dart b/test/review_page_test.dart
@@ -571,8 +571,8 @@ void main() {
     expect(find.text('Temperature and Top-P'), findsOneWidget);
     expect(find.text('Simple explanation'), findsOneWidget);
     expect(find.text('Technical explanation'), findsOneWidget);
-    expect(find.textContaining('about 300 Elo ahead'), findsOneWidget);
-    expect(find.textContaining('Blunders are still possible'), findsOneWidget);
+    expect(find.textContaining('some 300 Elo stronger'), findsOneWidget);
+    expect(find.textContaining('some very low-probability blunders'), findsOneWidget);
     await tester.tap(find.byKey(const ValueKey('sampling-help-technical')));
     await tester.pumpAndSettle();
     expect(find.textContaining('exp((logit'), findsOneWidget);
